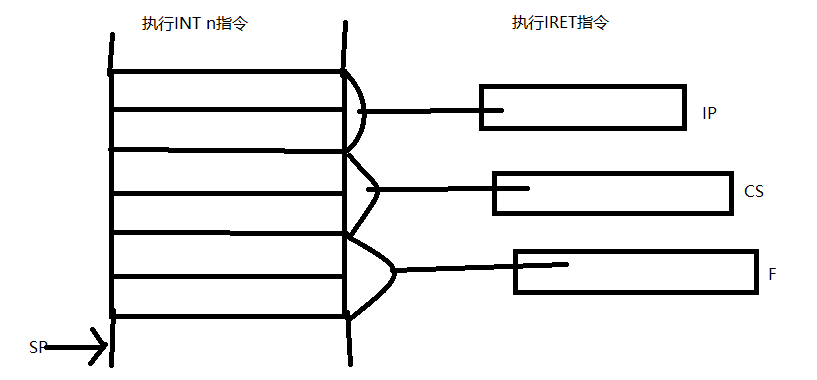
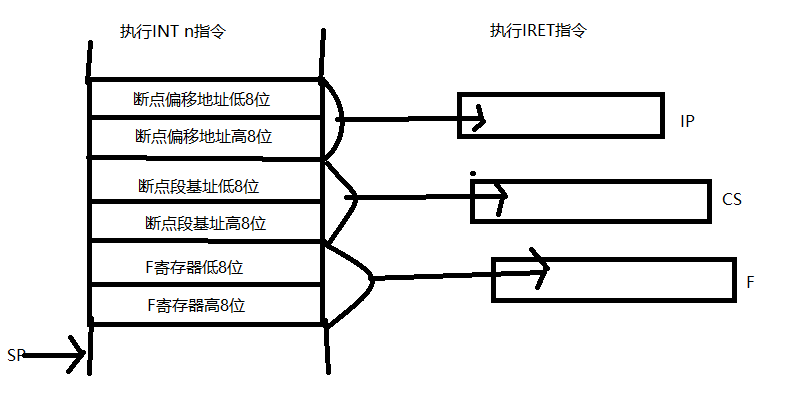
Site updated: 2022-04-30 18:47:28

diff --git a/2022/03/25/中断系统/index.html b/2022/03/25/中断系统/index.html
@@ -30,8 +30,9 @@
 <meta property="og:image" content="http://www.wzljava.xyz/2022/03/25/%E4%B8%AD%E6%96%AD%E7%B3%BB%E7%BB%9F/%E4%B8%AD%E6%96%AD%E7%B3%BB%E7%BB%9F002.png">
 <meta property="og:image" content="http://www.wzljava.xyz/2022/03/25/%E4%B8%AD%E6%96%AD%E7%B3%BB%E7%BB%9F/%E4%B8%AD%E6%96%AD%E7%B3%BB%E7%BB%9F003.png">
 <meta property="og:image" content="http://www.wzljava.xyz/2022/03/25/%E4%B8%AD%E6%96%AD%E7%B3%BB%E7%BB%9F/%E4%B8%AD%E6%96%AD%E7%B3%BB%E7%BB%9F004.png">
+<meta property="og:image" content="http://www.wzljava.xyz/2022/03/25/%E4%B8%AD%E6%96%AD%E7%B3%BB%E7%BB%9F/%E4%B8%AD%E6%96%AD%E7%B3%BB%E7%BB%9F005.png">
 <meta property="article:published_time" content="2022-03-25T13:58:02.000Z">
-<meta property="article:modified_time" content="2022-04-30T03:19:32.869Z">
+<meta property="article:modified_time" content="2022-04-30T07:14:51.391Z">
 <meta property="article:author" content="shymakers">
 <meta property="article:tag" content="微信计算机原理与接口技术">
 <meta name="twitter:card" content="summary">
@@ -265,11 +266,19 @@
 <p>2.每一级中断都可以通过设置内部屏蔽字进行屏蔽或允许。<br>3.在中断响应周期，8259A可以向CPU提供相应的中断向量。<br>4.8259A是很复杂的中断控制器，可以通过编程从中断触发方式，中断屏蔽方式，中断优先管理方式，中断结束方式和总线连接5个方面进行对中断管理。</p>
 <p><b>8259A的结构</b><br>1.内部结构如下图所示：</p>
 <img src="/2022/03/25/%E4%B8%AD%E6%96%AD%E7%B3%BB%E7%BB%9F/%E4%B8%AD%E6%96%AD%E7%B3%BB%E7%BB%9F003.png" class="" title="中断系统003">    
-<p>  1.中断请求寄存器（8位）IRR(interrupt request register)功能：寄存引脚IR0~IR7的中断请求。<br>  中断请求寄存器是一个8位寄存器，IRR的D0~D7位分别对应着IR0~IR7.IRR中的Di位置1，表明IRi引脚上有了中断请求信号，当中断请求被响应时，IRR的相应位复位。<br>  2.中断屏蔽寄存器（8位）IMR（interrupt mask register）功能：保存程序员写入的中断屏蔽字。<br>  中断屏蔽寄存器是一个8位寄存器，IMR的D0~D7分别对应着IR0~IR7.屏蔽字某位&#x3D;1（IMR的Di位&#x3D;1），则与该对应的中断请求信号（IRR的Di位）不能送到中断优先电路。<br>  3.优先权电路（排队电路）：比较同时送达优先权电路的中断亲戚，哪一个级别最高。通过判优选中其中级别最高的中断源，然后通过INT端向CPU提出中断请求。<br>  4.中断控制电路：控制电路是8259A内部的控制器，存一组初始化命令字和操作命令字，通过译码产生内部控制信号；当判优电路选中一个中断源时向CPI提中断请求（INT）<br>  通过INTA接收CPU送来的中断响应信号，中断响应上划线INTA信号是2个连续的负脉冲。<br>  5.中断服务寄存器（8位）ISR（interrupt service register）：记录CPU正为之服务的是哪一个中断源。<br>  ISR中Di位和IRR中Di位对应。IDR每一位都是响应中断源的中断服务标志位。<br>  6.数据缓冲器：完成与CPU数据线配接；收初始化命令字，操作命令字。当收到第二个中断响应脉冲时，通过它们向CPU送出被选中的中断源的中断类型码n.<br>  在之后CPU从4n+0~4n+2单元取出n型中断向量，从而转入n型服务程序。<br>  7.读写控制模块：接收CPU的读&#x2F;写控制命令字和端口地址选择信号。<br>  8.级联缓冲&#x2F;比较器 </p>
-<p>2.8259A的工作过程-&gt;CPU响应硬件中断的过程</p>
+<p>  1.中断请求寄存器（8位）IRR(interrupt request register)功能：寄存引脚IR0~IR7的中断请求。<br>  中断请求寄存器是一个8位寄存器，IRR的D0~D7位分别对应着IR0~IR7.IRR中的Di位置1，表明IRi引脚上有了中断请求信号，当中断请求被响应时，IRR的相应位复位。<br>  2.中断屏蔽寄存器（8位）IMR（interrupt mask register）功能：保存程序员写入的中断屏蔽字。<br>  中断屏蔽寄存器是一个8位寄存器，IMR的D0~D7分别对应着IR0~IR7.屏蔽字某位&#x3D;1（IMR的Di位&#x3D;1），则与该对应的中断请求信号（IRR的Di位）不能送到中断优先电路。<br>  3.优先权电路（排队电路）：比较同时送达优先权电路的中断亲戚，哪一个级别最高。通过判优选中其中级别最高的中断源，然后通过INT端向CPU提出中断请求。<br>  4.中断控制电路：控制电路是8259A内部的控制器，存一组初始化命令字和操作命令字，通过译码产生内部控制信号；当判优电路选中一个中断源时向CPI提中断请求（INT）<br>  通过INTA接收CPU送来的中断响应信号，中断响应上划线INTA信号是2个连续的负脉冲。<br>  5.中断服务寄存器（8位）ISR（interrupt service register）：记录CPU正为之服务的是哪一个中断源。<br>  ISR中Di位和IRR中Di位对应。IDR每一位都是响应中断源的中断服务标志位。<br>  6.数据缓冲器：完成与CPU数据线配接；收初始化命令字，操作命令字。当收到第二个中断响应脉冲时，通过它们向CPU送出被选中的中断源的中断类型码n.<br>  在之后CPU从4n+0~4n+2单元取出n型中断向量，从而转入n型服务程序。<br>  7.读写控制模块：接收CPU的读&#x2F;写控制命令字和口地址选择信号。<br>  8.级联缓冲&#x2F;比较器 </p>
+<p><b>2.8259A的工作过程-&gt;CPU响应硬件中断的过程</b></p>
 <img src="/2022/03/25/%E4%B8%AD%E6%96%AD%E7%B3%BB%E7%BB%9F/%E4%B8%AD%E6%96%AD%E7%B3%BB%E7%BB%9F004.png" class="" title="中断系统004">
-<p>1.当引脚IR0~IR7上有中断请求时，8259A中断请求寄存器相应位置为1，记录外部的中断请求，如上图假设IR0,IR6,IR7同时有3个中断请求信号，<br>则中短请求寄存器IRR的D0&#x3D;1,D6&#x3D;1,D7&#x3D;1.<br>2.根据程序员事先写入中断屏蔽寄存器IMR的中断屏蔽字，决定哪些中断请求能够送达到优先权电路，没有屏蔽的中断请求将被送到优先权电路判优，如上图<br>因为IMR的D0&#x3D;0,D6&#x3D;1,D7&#x3D;0,则IR0与IR7上的中断请求可以送达到优先权电路。而 IR6上的中断请求被屏蔽，不能送达到优先权电路。<br>3.所有到达优先权电路中的中断请求，首先需要经过优先权电路的判别。选中当前级别最好的中断源，然后从引脚INT向CPU发出中断请求信号，如上图，设IR0<br>优先级别高于IR7，排队结果将选中IR0，向CPU发出中断请求信号。<br>4.CPU满足一定条件后，通过上划线INTA引脚向8259A的上划线INTA发出2个负脉冲的中断响应信号，如上图，只要CPI满足响应可屏蔽中断条件，则可响应IR0中断<br>向8259A发送两个连续的脉冲信号。<br>5.8259A引脚上划线INTA收到第一个中断响应信号之后，立即使中断服务寄存器中与被选中的中断源对应的那一位置1，同时把中断请求寄存器中的相应位清0.<br>如上图，8259A收到一个脉冲信号，ISR D0由0变1，同时IRR D0由1变0.<br>6.从引脚上划线INTA收到第二个中断响应信号后，8259A通过数据线将选中的中断源类型码n送往CPU.  </p>
-<p><b></b><br><b></b><br><b></b><br><b></b></p>
+<p>1.当引脚IR0~IR7上有中断请求时，8259A中断请求寄存器相应位置为1，记录外部的中断请求，如上图假设IR0,IR6,IR7同时有3个中断请求信号，<br>则中短请求寄存器IRR的D0&#x3D;1,D6&#x3D;1,D7&#x3D;1.<br>2.根据程序员事先写入中断屏蔽寄存器IMR的中断屏蔽字，决定哪些中断请求能够送达到优先权电路，没有屏蔽的中断请求将被送到优先权电路判优，如上图<br>因为IMR的D0&#x3D;0,D6&#x3D;1,D7&#x3D;0,则IR0与IR7上的中断请求可以送达到优先权电路。而 IR6上的中断请求被屏蔽，不能送达到优先权电路。<br>3.所有到达优先权电路中的中断请求，首先需要经过优先权电路的判别。选中当前级别最好的中断源，然后从引脚INT向CPU发出中断请求信号，如上图，设IR0<br>优先级别高于IR7，排队结果将选中IR0，向CPU发出中断请求信号。<br>4.CPU满足一定条件后，通过上划线INTA引脚向8259A的上划线INTA发出2个负脉冲的中断响应信号，如上图，只要CPU满足响应可屏蔽中断条件，则可响应IR0中断<br>向8259A发送两个连续的脉冲信号。<br>5.8259A引脚上划线INTA收到第一个中断响应信号之后，立即使中断服务寄存器中与被选中的中断源对应的那一位置1，同时把中断请求寄存器中的相应位清0.<br>如上图，<b>8259A收到一个脉冲信号，ISR D0由0变1，同时IRR D0由1变0.</b><br>6.<b>从引脚上划线INTA收到第二个中断响应信号后，8259A通过数据线将选中的中断源类型码n送往CPU.</b><br>7.在实模式下，CPU从4<em>n&#x2F;~4</em>n+3单元取出该中断源的中断向量-&gt;IP,CS，从而引导CPU执行该中断源的中断服务程序。如上图，CPU根据提供的<br>中断类型码n在中断向量表中找到对应中断向量，转而执行对应中断服务程序，在服务程序中对通过IR0提出中断请求的外设服务。<br>8.CPU完成中断服务程序中的任务，在执行IRET前，向8259A写中断结束命令字，使8259A的中断服务寄存器ISR相应位清零。如上图，8259A的ISR的D0由1变<br>0，表示对来自IR0上的中断请求服务完毕。同时，CPU执行中断服务程序的最后一条指令IRET，返回被中断的程序继续原来的任务。对IR0上的中断请求服务完成后，<br>假如8259A的IR7上的中断请求仍然维持有效，则可以开始以同样的过程处理IR7中断请求。</p>
+<p><b>PC系列机的中断管理方式</b><br>8259A中断控制器是中断系统的核心器件，对系统8259A的初始化编程是在微机启动后由BIOS自动完成的，设定的中断管理方式为：<br>1.系统8259A的中断触发方式采用边沿触发，即上升沿中断请求。<br>2.系统8259A的中断屏蔽采用常规屏蔽方式，即应用时，向8259A中断屏蔽寄存器写入适当屏蔽字，以屏蔽&#x2F;开放某一级中断。<br>3.系统8259A中断优先管理采用完全嵌套方式，即IR0中断请求级别最高，IR7中断请求级别最低。<br>4.系统8259A中断结束，即在中断服务子程序结束之前向8259A发送中断结束命令。<br><b>非屏蔽中断</b><br>由输入到NMI引脚的中断请求信号引发的中断称为非屏蔽硬件中断。<br>CPU响应非屏蔽中断的条件：<b>NMI引脚有中断请求，系统没有DMA请求。</b>CPU当前指令执行完毕。<br>CPU响应非屏蔽中断的过程：CPU在每一条指令的最后一个时钟周期，检测NMII引脚。处理器不屏蔽来自NMI的中断请求。处理器在响应NMI中断时，不从外部硬件接受<br>中断向量号。在80x86中，非屏蔽中断所对应的中断向量号固定为2.为了非屏蔽中断的嵌套，每当接受一个NMI中断，处理器就在内部屏蔽了再次响应NMI，这一屏蔽<br>过程直到执行中断返回指令IRET后才结束。所以，NMI处理程序应以IRET指令结束。<br><b>可屏蔽中断</b><br>CPU响应可屏蔽中断的条件：<br>INTR引脚有中断请求，NMI引脚没有中断请求，系统没有DMA请求。<br>CPU当前指令执行完毕。<br>CPU处于开中断状态，即标志寄存器的中断允许标志置1。<br>非屏蔽中断的级别高于可屏蔽中断，DMA请求的级别比非屏蔽中断的级别更高。<br>CPU响应可屏蔽中断的过程：CPU在每一条指令的最后一个时钟周期检测INTR引脚，当检测到有可屏蔽中断请求时，在满足上述条件的前提下，通过总线控制器向<br>系统8259A发出中断响应信号（2个负脉冲）。在获得8259A送来的中断类型码后，在实模式下查询中断向量表，从而转向相应中断源的中断服务程序。<br>PC系列机的可屏蔽中断结构：<br>如下图所示：</p>
+<img src="/2022/03/25/%E4%B8%AD%E6%96%AD%E7%B3%BB%E7%BB%9F/%E4%B8%AD%E6%96%AD%E7%B3%BB%E7%BB%9F005.png" class="" title="中断系统005">
+<p>使用两片8259A管理15级中断。<br>常见中断源即中断类型码比如：<br>主      中断源       中断类型         从      中断源      中断类型<br>IR0     日时钟         08H            IR0      实时时钟     70H<br>IR1       键盘         09H            IR1      用户中断     71H改向0AH<br>IR2     来自从                        IR2       保留         72H<br>             ………………………….<br>IR7      并行口1       0FH            IR7       保留         77H</p>
+<p>PC中断结构的部分有关地址<br>系统分配给主8259A和从8259A的口地址：</p>
+<pre><code>             奇地址（中断屏蔽寄存器口地址）               偶地址（接收中断结束命令的寄存器口地址）
+</code></pre>
+<p>主                     21H                                               20H</p>
+<p>从                     A1H                                               A0H</p>
+<p>中断优先级：由于系统主从8259A中断优先级管理采用完全嵌套方式，因此，整个系统中断源的级别从高到低为：主IR0,IR1,从IR0&#x2F;<del>IR7,主IR3&#x2F;</del>IR7.<br>中断结束字：主从均采用常规结束方式，即在中断服务子程序结束之前向8259A送常规中断结束命令20H.<br>1.接入主8259A IR0,IR1,IR3~IR7的中断源，其服务程序结束要向8259A送中断结束命令字，程序如下：<br>        。。。<br>        MOV AL,20H<br>        OUT 20H(口地址),AL<br>        恢复现场<br>        IRET<br>2.接入从8259A的中断源，其服务程序结束应分别向主，从8259A各送一个中断结束命令字，如下：<br>        。。。<br>        MOV AL,20H<br>        OUT 20H,AL<br>        OUT 0A0H,AL<br>        恢复现场<br>        IRET<br><b></b></p>
 
     </div>
 

diff --git a/2017/08/21/js注入问题/index.html b/2017/08/21/js注入问题/index.html
@@ -247,7 +247,7 @@
 　　我们想让表单发送到我们的邮箱，而不是someone@somewhere.com。可以使用如下命令：
 
 
-<p>javascript:alert(document.format.mail.value&#x3D;”<a href="mailto:&#x6d;&#x65;&#64;&#x68;&#x61;&#99;&#107;&#x65;&#114;&#46;&#99;&#111;&#x6d;">&#x6d;&#x65;&#64;&#x68;&#x61;&#99;&#107;&#x65;&#114;&#46;&#99;&#111;&#x6d;</a>“)<br>也许你已经注意到了这些命令的层次关系：<br>我们按照从左到右的顺序依次说明：<br>1)最左边是document<br>2)然后是我们想要更改的对象名(比如document.hi.src)或其包含的对象(比如document.format.mail.value)<br>3)最后是我们想要更改的属性(比如源路径:document.hi.src，或变量值:document.format.mail.value)<br>4)使用“.”号分隔<br>5)当我们想要更改属性值的时候，我们使用“&#x3D;”号和新的属性值<br>*注释:当新的属性值为字符串时(比如:document.format.mail.value&#x3D;”<a href="mailto:&#x6d;&#101;&#64;&#104;&#97;&#x63;&#107;&#101;&#x72;&#x2e;&#99;&#111;&#109;">&#x6d;&#101;&#64;&#104;&#97;&#x63;&#107;&#101;&#x72;&#x2e;&#99;&#111;&#109;</a>“)需要用双引号把它括起来。<br>如果我们想要把它作为一个变量的值，则不需要使用双引号””。例如我们想要将变量b的值赋予变量a，我们可以输入javascript:alert(a&#x3D;b)。<br>但是,页面中的大部分标签都没有名字，比如：</p>
+<p>javascript:alert(document.format.mail.value&#x3D;”<a href="mailto:&#x6d;&#x65;&#x40;&#x68;&#97;&#99;&#107;&#101;&#x72;&#46;&#x63;&#111;&#x6d;">&#x6d;&#x65;&#x40;&#x68;&#97;&#99;&#107;&#101;&#x72;&#46;&#x63;&#111;&#x6d;</a>“)<br>也许你已经注意到了这些命令的层次关系：<br>我们按照从左到右的顺序依次说明：<br>1)最左边是document<br>2)然后是我们想要更改的对象名(比如document.hi.src)或其包含的对象(比如document.format.mail.value)<br>3)最后是我们想要更改的属性(比如源路径:document.hi.src，或变量值:document.format.mail.value)<br>4)使用“.”号分隔<br>5)当我们想要更改属性值的时候，我们使用“&#x3D;”号和新的属性值<br>*注释:当新的属性值为字符串时(比如:document.format.mail.value&#x3D;”<a href="mailto:&#x6d;&#x65;&#64;&#x68;&#x61;&#99;&#107;&#x65;&#114;&#46;&#x63;&#x6f;&#x6d;">&#x6d;&#x65;&#64;&#x68;&#x61;&#99;&#107;&#x65;&#114;&#46;&#x63;&#x6f;&#x6d;</a>“)需要用双引号把它括起来。<br>如果我们想要把它作为一个变量的值，则不需要使用双引号””。例如我们想要将变量b的值赋予变量a，我们可以输入javascript:alert(a&#x3D;b)。<br>但是,页面中的大部分标签都没有名字，比如：</p>
 <form action="send.php" method="post">
 <input type="hidden" name="mail" value="someone@somewhere.com">
 <input type="text" name="name">
@@ -272,7 +272,7 @@ javascript:alert(document. .mail.value="me@hacker.com")
 </form>
 在以上代码中我们看见了3个表单，但我们只对第二个感兴趣，因此我们想要的表单序号就是2。不要忘记我们是从1开始计算的,比如1,2,3,4...而javascript却从0开始计算，比如0,1,2,3...所以真正的表单序号是1，不是2，通常我们要把找到的表单序号减一。我们将用这个序号来补全我们的命令:
 
-<p>javascript:alert(document.forms[1].mail.value&#x3D;”<a href="mailto:&#x6d;&#x65;&#x40;&#x68;&#97;&#x63;&#x6b;&#101;&#x72;&#x2e;&#99;&#111;&#x6d;">&#x6d;&#x65;&#x40;&#x68;&#97;&#x63;&#x6b;&#101;&#x72;&#x2e;&#99;&#111;&#x6d;</a>“)<br>这样你就可以更改没有名字的图片或链接了，你可以把“forms”换成任何你想要的标签类型。对于图片就是</p>
+<p>javascript:alert(document.forms[1].mail.value&#x3D;”<a href="mailto:&#x6d;&#101;&#x40;&#x68;&#x61;&#99;&#107;&#x65;&#x72;&#46;&#99;&#111;&#x6d;">&#x6d;&#101;&#x40;&#x68;&#x61;&#99;&#107;&#x65;&#x72;&#46;&#99;&#111;&#x6d;</a>“)<br>这样你就可以更改没有名字的图片或链接了，你可以把“forms”换成任何你想要的标签类型。对于图片就是</p>
 <p>javascript:alert(document.images[3].src&#x3D;”#the url of the picture you want#”)<br>　　对于链接就是</p>
 <p>javascript:alert(document.links[0].href&#x3D;”#the url you want#”)<br> 最后，我们可以用这个技巧来编辑cookies。下面的命令由triviasecurity.net的Dr_aMado编写，我只修改了一点点，让它在用户编辑之前显示出来。你只要把它们复制到地址栏就可以了：</p>
 <p>javascript:alert(window.c&#x3D;function a(n,v,nv){c&#x3D;document.cookie;c&#x3D;c.substring(c.indexOf(n)+n.length,c.length);<br>c&#x3D;c.substring(1,( (c.indexOf(“;”)&gt;-1) ? c.indexOf(“;”) : c.length));nc&#x3D;unescape(c).replace(v,nv);<br>document.cookie&#x3D;n+”&#x3D;”+escape(nc);return unescape(document.cookie);});<br>alert(‘The cookie is: “‘+document.cookie+’”‘);alert(c(prompt(“The name of the cookie:”,””),<br>prompt(“Change this value:”,””),prompt(“with this:”,””)))</p>
